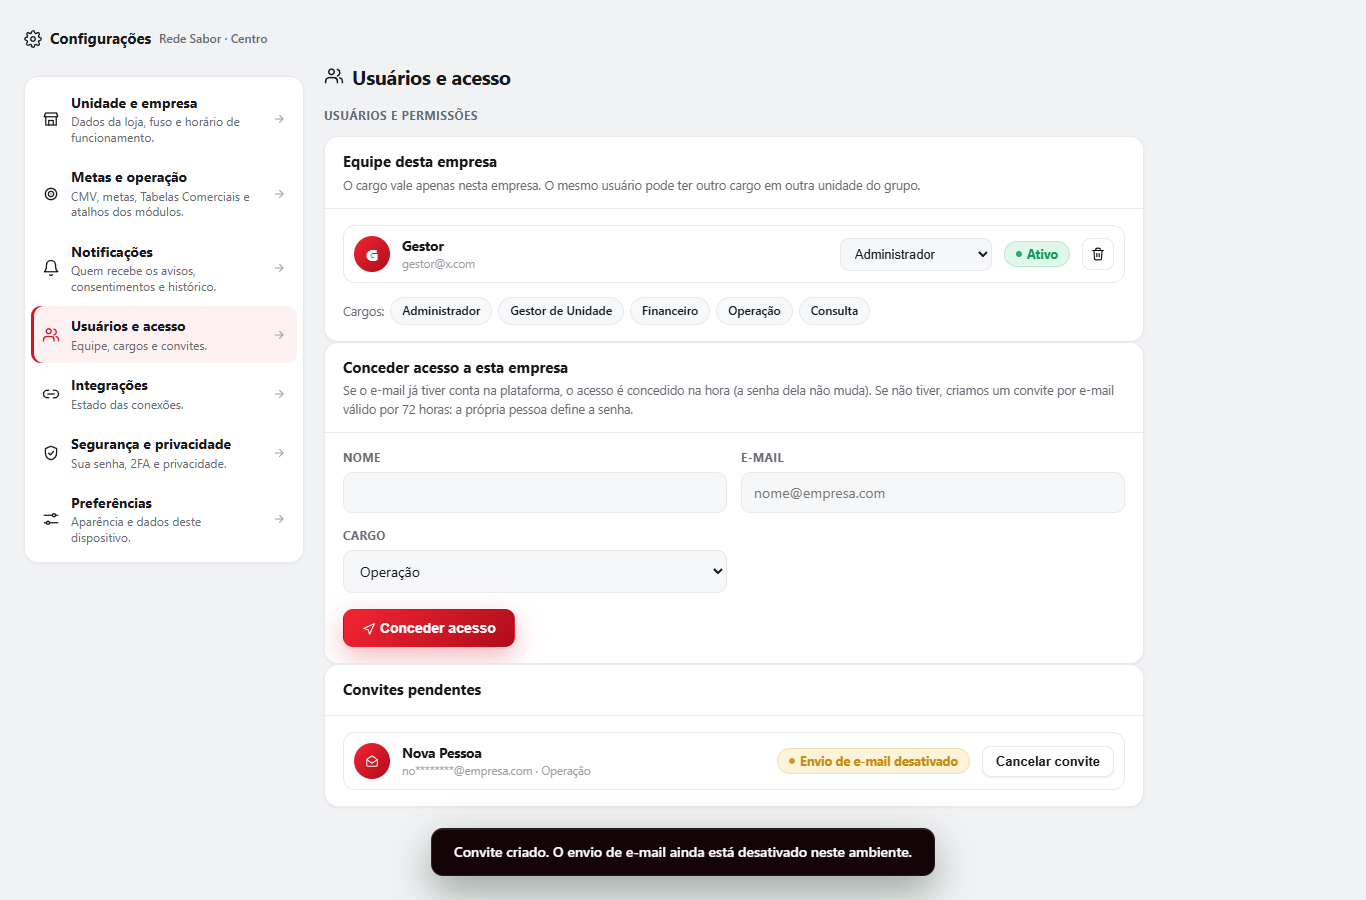
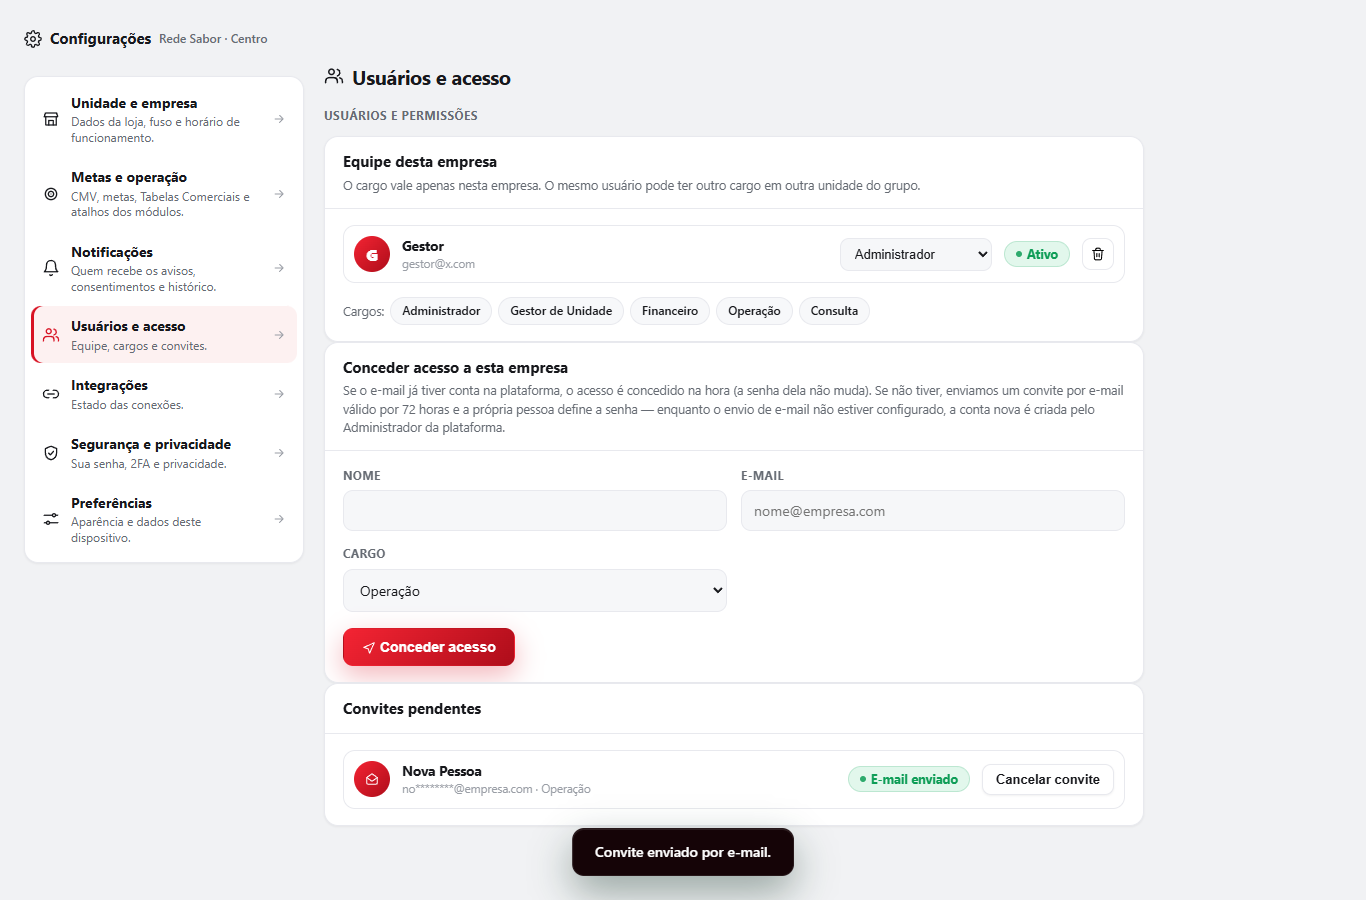
docs(configuracoes-2): consolidação — homologação em 3 confirmações, SMTP/variáveis e implantação
- 15: pré-voo do Supabase de teste, pacote consolidado (ensaiado), SMTP e APP_URL_PUBLICA,
  sequência exata de implantação e recuperação.
- 13: comportamento sem USUARIOS_CONVITE_EMAIL e a nova APP_URL_PUBLICA.
- 12 §9: correções C1–C5 e regressão final; evidências atualizadas (PostgreSQL 79/79).

diff --git a/docs/configuracoes-2-notificacoes/15-homologacao-consolidada-e-implantacao.md b/docs/configuracoes-2-notificacoes/15-homologacao-consolidada-e-implantacao.md
@@ -1,0 +1,84 @@
+# 15 — Homologação consolidada no Supabase de teste, SMTP e sequência exata de implantação
+
+Data: 30/10/2026. Branch `feat/configuracoes-2-central-notificacoes` (local à frente do PR #55). Nada aplicado em produção nem no teste.
+
+## 1. Pré-voo do Supabase de teste (feito, só leitura)
+
+| Item | Resultado |
+|---|---|
+| Identidade | `wiqqsxnysbzhcrzrrean` = "teste-multiempresarial" (constante `PROJETO_TESTE_REF` do código); produção é `uqybgauuxcrqzquultfu` — projetos diferentes |
+| Plano | Organização em plano **Pro** (backups diários automáticos — restauração total como último recurso) |
+| Migrations registradas | 17 (o projeto foi montado por outros meios; objetos de 101–104 existem sem registro) |
+| Dependências ausentes | objetos de 105, 109, 110, 116–118, 124, 127, 131. **Nenhum** é referenciado por 132–135 |
+| Funções que 132–135 tocam/usam | `agendar`, `resolver`, `reservar_envio`, `remapear` com hash **idêntico** ao da main e ao de produção |
+| Tráfego de outra frente | último evento iFood 30/09 (0 em 7 dias); último login 19/10; 1 evento de auditoria em 24 h (transferência de unidade da homologação 131, hoje 05:58 UTC); conexões: só PostgREST e exportador de métricas |
+| WhatsApp | 2 conexões DISCONNECTED; fila pendente 0 |
+| Homologação iFood | 132–135 não tocam nenhum objeto `ifood_*`; as migrations do iFood pendentes ali (116–118, 124) **não** serão aplicadas |
+| Backup lógico | manifesto com impressão digital (colunas, funções+ACL, gatilhos, políticas, ACL/RLS, config) e hashes dos dados tocados; o corpo de `agendar` é o da 104 da main |
+
+**Conclusão:** o projeto é seguro para receber **somente** 132–135 (não a cadeia inteira).
+
+## 2. Por que não "completar a sequência"
+
+Aplicar 105–131 só para fechar números mudaria o estado da homologação do iFood (116–118, 124 pendentes de propósito ali) e não é
+necessário para 132–135. Fica fora.
+
+## 3. Execução consolidada (3 confirmações, com acompanhamento)
+
+O conector exige **uma confirmação humana por chamada de escrita** (expira em 2 minutos). Não será contornado. Em vez de 12 chamadas
+(4 arquivos × aplicar/reverter/reaplicar), o pacote junta tudo em **3**:
+
+| # | Ação | Confirmação | Ensaio local (cópia da cadeia da main, uma transação) |
+|---|---|---|---|
+| 0 | `node backend/testes-seguros/supabase-teste/gerar_pacote.mjs <pasta>` — registrar os SHA-256 | — | `pacote_aplicar.sql` 84.818 B, `pacote_reverter.sql` 13.359 B |
+| 1 | `apply_migration` com `pacote_aplicar.sql` (uma transação: tudo ou nada) | **1ª** | OK; `agendar` = `7b7c0a59…` |
+| 2 | `validar_pos_132_135.sql` (só leitura) — todos os itens `ok: true` | — | itens estruturais OK; os 3 de dados comparam com os hashes do TESTE |
+| 3 | `validar_postgrest.mjs` com a chave **publicável** — nada novo exposto a `anon` | — | (só no remoto) |
+| 4 | Prova de recuperação: `pacote_reverter.sql`; comparar a impressão digital com a de antes | **2ª** | OK; impressão digital IDÊNTICA; `agendar` = `f37bf6e1…` |
+| 5 | Reaplicar `pacote_aplicar.sql`; repetir 2 e 3 | **3ª** | OK |
+
+**Critério de parada:** qualquer item da validação diferente de `ok: true` → reverter (passo 4) e parar.
+**Estado final:** 132–135 aplicadas no TESTE; seleção por unidade desligada; categorias novas inativas; snapshot vazio.
+
+**Alternativas, se não houver como acompanhar as confirmações:**
+- (a) Só o passo 1 (uma confirmação) + validação; a prova de recuperação fica a do ensaio local (idêntico, uma transação) e o backup diário.
+- (b) Você mesmo cola `pacote_aplicar.sql` no SQL Editor do projeto de TESTE (uma execução); eu rodo as validações só leitura.
+- (c) Projeto Supabase dedicado só para esta homologação (custo; exige montar a cadeia da main inteira).
+
+## 4. SMTP e variáveis (para o convite de usuário — DEP-2)
+
+**No Supabase Auth do projeto (configuração do painel, não variáveis do app):**
+1. SMTP próprio (host, porta, usuário, senha, remetente) — o SMTP padrão do Supabase é limitado e só serve para teste.
+2. *URL Configuration*: Site URL e Redirect URLs incluindo `<APP_URL_PUBLICA>/convite-usuario.html`.
+3. Template "Invite user" em português com `{{ .ConfirmationURL }}`.
+4. Validade do link do e-mail do Supabase: conferir; se for menor que 72 h, quem não aceitar a tempo precisa de novo convite
+   (o admin cancela e convida de novo).
+
+**Variáveis do app (nenhuma criada):**
+
+| Variável | Para quê | Sem ela |
+|---|---|---|
+| `APP_URL_PUBLICA` | **nova** — origem https dos links (convite da Central e de usuário); cabeçalhos da requisição nunca são usados em produção | Produção: criar link = 503 antes de gravar |
+| `USUARIOS_CONVITE_EMAIL=supabase` | liga o envio do convite de usuário | Conta nova = 409 "peça ao Administrador da plataforma"; **nada é criado**; conta existente recebe o acesso como antes |
+| `NOTIFICACOES_SEGREDO_MESTRE` | cifra/HMAC da Central e dos convites | Central só consulta; convites indisponíveis |
+
+**Homologação do e-mail (futura, só no TESTE):** caixa de e-mail controlada; conferir que o redirect preserva `#t=` e que o
+aceite cria o vínculo; nenhuma conta real de cliente.
+
+## 5. Sequência exata de implantação (cada passo com autorização própria)
+
+1. **Push** dos commits locais para o PR #55 e revisão do diff atualizado.
+2. **Homologação no TESTE** (§3) — recomendada antes de produção.
+3. **Produção — migrations** (janela fora do agendamento do D-1): `pacote_aplicar.sql` gerado do MESMO commit, numa transação;
+   depois `validar_pos_132_135.sql` adaptado (itens estruturais + D-1 equivalente em todas as unidades; hashes de dados de produção
+   capturados antes).
+4. **Merge** do PR (dispara o deploy do backend + frontend). Conferir `/health` e os arquivos novos servidos.
+5. **Variáveis** (opcional nesta fase): `APP_URL_PUBLICA` e `NOTIFICACOES_SEGREDO_MESTRE`. **Nunca** em produção:
+   `NOTIFICACOES_OTP_TRANSPORTE`, `NOTIFICACOES_AMBIENTE_ISOLADO`, `NOTIFICACOES_M3_ATIVACAO_HABILITADA`.
+6. **Observação de 24 h** do D-1 (quantidade de mensagens e destinatários igual à véspera).
+7. **Depois, separadamente:** SMTP + `USUARIOS_CONVITE_EMAIL`, corte do fuso, provedor oficial/termos, M3.
+
+## 6. Recuperação
+
+Igual ao doc 14 §3, com o pacote: reverter o código primeiro (o código anterior convive com 132–135); só se necessário,
+`pacote_reverter.sql` numa transação (ensaiado: impressão digital idêntica à de antes). Exportar antes as tabelas novas que tiverem linhas.

diff --git a/docs/configuracoes-2-notificacoes/13-dependencias-producao.md b/docs/configuracoes-2-notificacoes/13-dependencias-producao.md
@@ -26,7 +26,8 @@ nenhuma migration aplicada, nenhuma variável criada, nenhum push, PR, merge, de
 | `NOTIFICACOES_PALAVRA_CHAVE_SAIR` | ausente → desligada | SAIR/PARAR/STOP no WhatsApp revoga (depende do inbound, hoje parado — ver memória do companion) |
 | `RATE_LIMIT_NOTIFICACOES_TITULAR_MAX` | 40 por 10 min por IP | limite das rotas públicas do titular |
 | `OPERACIONAL_FUSO_UNIDADE_CORTE` | ausente → fuso da plataforma em tudo | data (AAAA-MM-DD) a partir da qual o fuso da unidade vale |
-| `USUARIOS_CONVITE_EMAIL` | ausente → convite criado, e-mail **não** enviado (aviso na tela) | `supabase` usa `auth.admin.inviteUserByEmail` |
+| `USUARIOS_CONVITE_EMAIL` | ausente → conta NOVA recusada com 409 ("peça ao Administrador da plataforma") e **nada é criado**; conta existente recebe o acesso como antes | `supabase` usa `auth.admin.inviteUserByEmail`; falha do e-mail revoga o convite na hora (502) |
+| `APP_URL_PUBLICA` | ausente → em produção, criar link de convite (Central ou usuário) = 503 antes de gravar | origem https confiável dos links; cabeçalhos da requisição nunca viram link em produção |
 
 ## 3. Dependências abertas (DEP)
 

diff --git a/docs/configuracoes-2-notificacoes/README.md b/docs/configuracoes-2-notificacoes/README.md
@@ -18,3 +18,4 @@ Missão **somente de auditoria e planejamento** (30/10/2026): nenhum código fun
 | [12 — Relatório de implementação e homologação](12-relatorio-implementacao-homologacao.md) | O que foi entregue (blocos A–F), testes, evidências do D-1/segurança/M3/transferência, regressão × main, correções, limitações |
 | [13 — Dependências para produção](13-dependencias-producao.md) | Ordem de implantação, variáveis novas (nenhuma criada), DEP-1..11, garantias do que não muda |
 | [14 — Pré-voo, implantação e recuperação](14-preflight-implantacao-recuperacao.md) | Pré-voo de produção (só leitura), procedimento de implantação, plano de recuperação, estado e procedimento do Supabase de teste |
+| [15 — Homologação consolidada, SMTP e implantação](15-homologacao-consolidada-e-implantacao.md) | Pré-voo do Supabase de teste, pacote em 3 confirmações (ensaiado), SMTP e variáveis, sequência exata de implantação |
